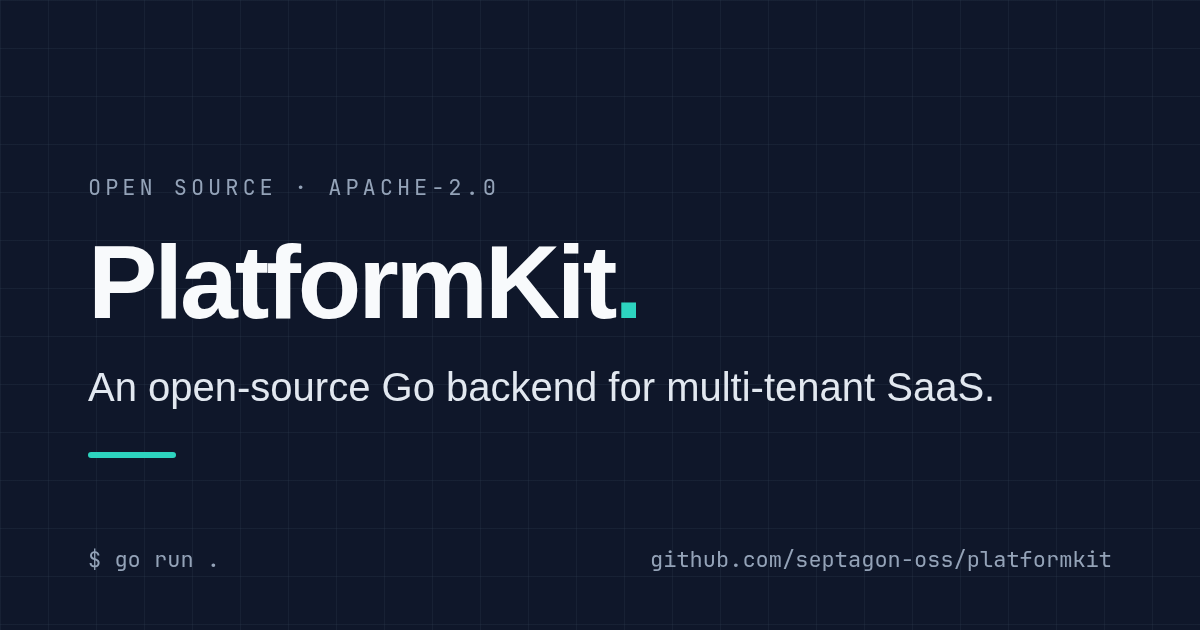
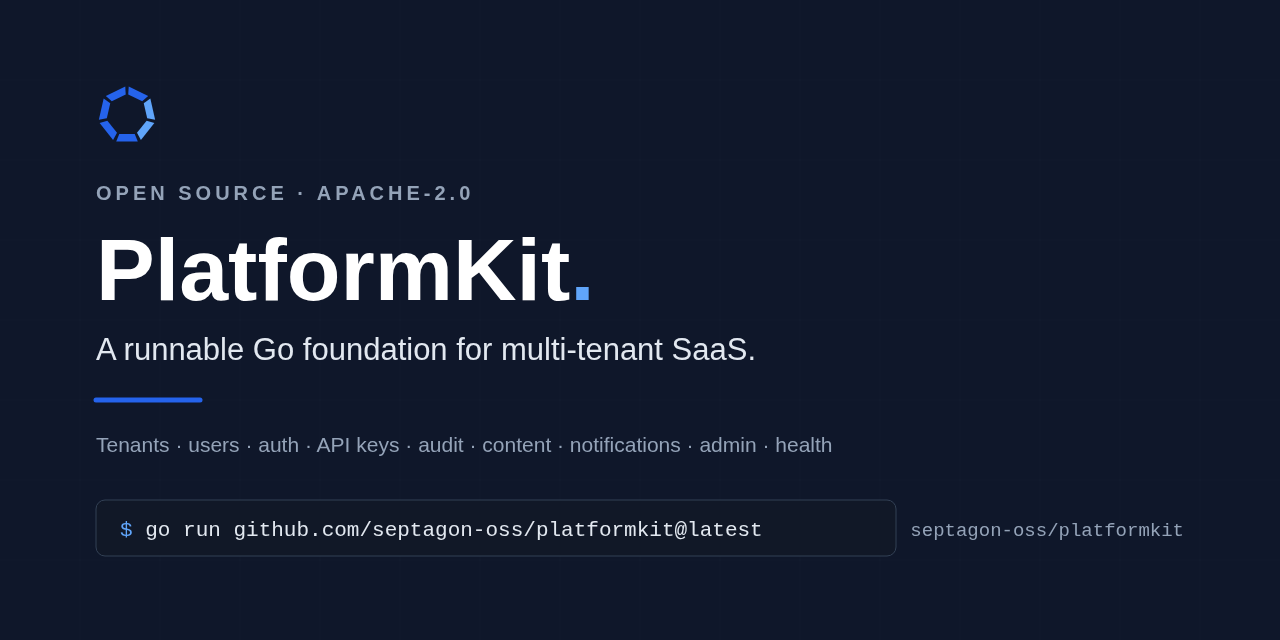
docs: rebuild the brand assets on the design system's own tokens
Every image was off-brand teal while pk-design publishes #2563eb as
color.brand.primary, so the project's own artwork contradicted the design
system it ships. hero.png was the worse problem: it headed the README with
unlabelled empty boxes while its alt text promised a dependency graph.

All four assets are now hand-authored SVG on the real tokens, so they are
diffable, exact, and cannot silently drift from the architecture again:

  hero.svg          the actual graph, labelled — pk-core and pk-design feed
                    pk-modules, pk-apps composes, platformkit runs, and a
                    contributed module joins through WithModules
  architecture.svg  relaid out in lanes, sans-serif, no overflowing text
  og-card.svg/.png  the social card, on brand
  logo.svg          the heptagon mark, plus a dark avatar variant

Both diagrams also stopped advertising "go run ." now that the front door
resolves through @latest.

diff --git a/README.md b/README.md
@@ -9,7 +9,7 @@ content, notifications, health, and a real operator console in one process.
 [![License: Apache-2.0](https://img.shields.io/badge/License-Apache--2.0-blue)](LICENSE)
 [![Go 1.26+](https://img.shields.io/badge/Go-1.26%2B-00ADD8)](https://go.dev/dl/)
 
-![PlatformKit — composable modules forming a dependency graph](docs/hero.png)
+![PlatformKit — pk-core contracts and pk-design tokens feed nine reference modules, which pk-apps composes into the starter the platformkit front door runs](docs/hero.svg)
 
 ## Run the stable starter
 
